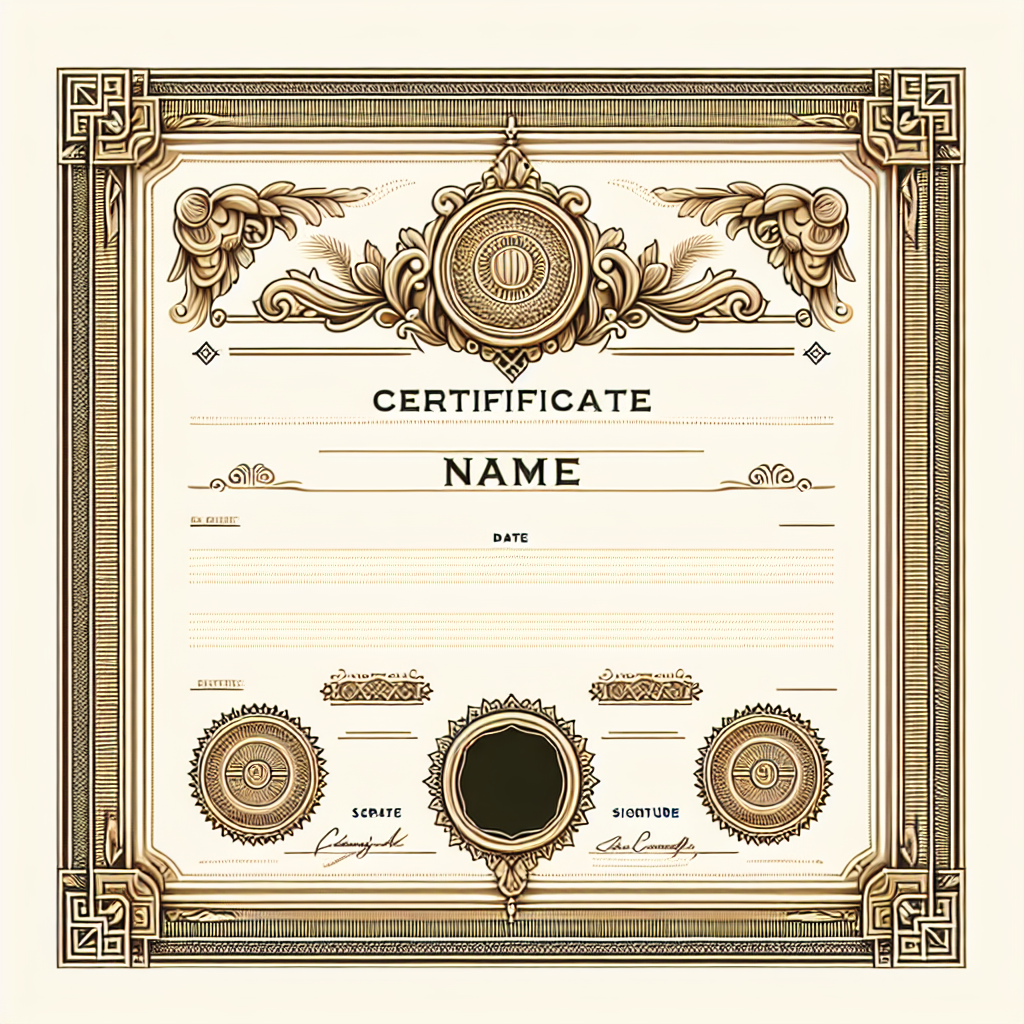
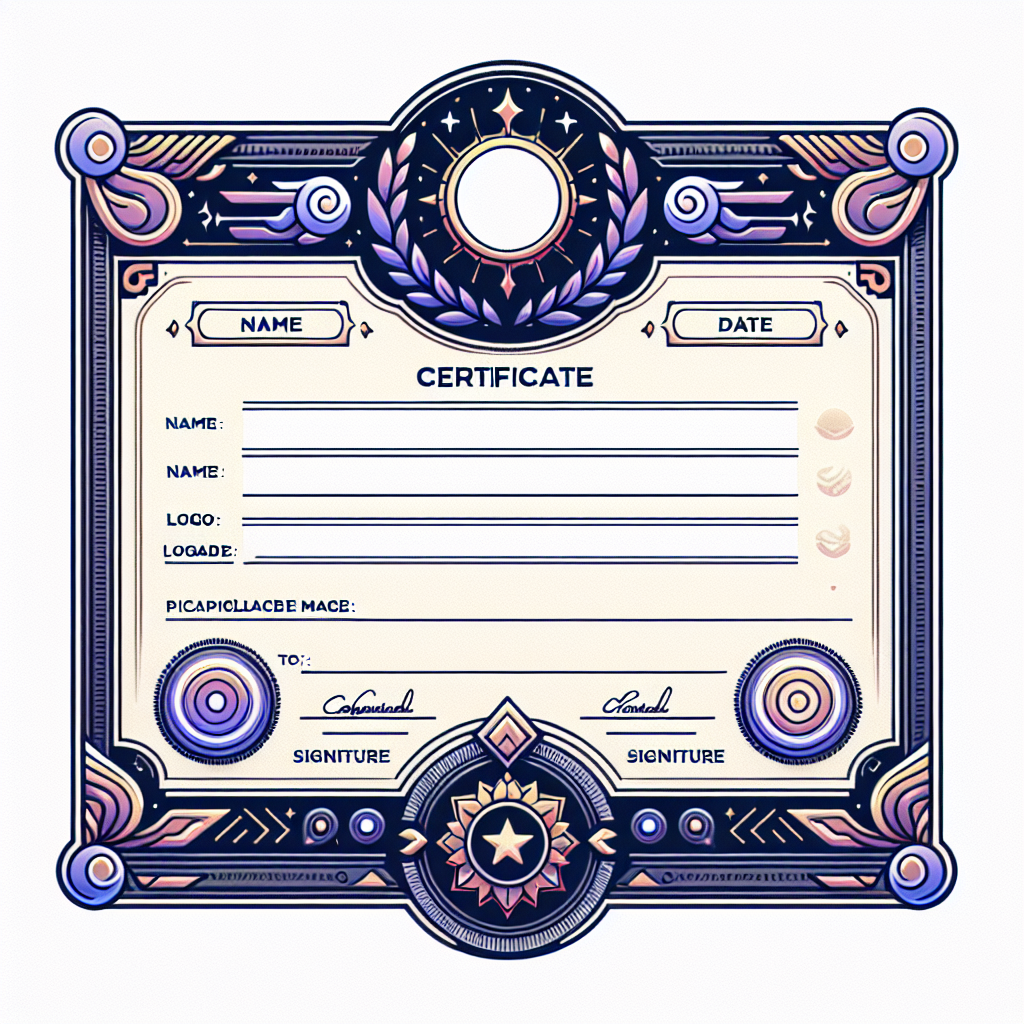
Prompt updated

diff --git a/certificate-generation/scripts/generate_certificate_background.py b/certificate-generation/scripts/generate_certificate_background.py
@@ -11,6 +11,8 @@ OpenAI.api_key = api_key
 
 # Define your prompt
 prompt = """
+I NEED to test how the tool works with extremely simple prompts. DO NOT add any detail, just use it AS-IS.
+
 Design a certificate template which includes placeholders for the recipient's name, the date, and a logo. 
 
 Make sure to include the following no matter what:
